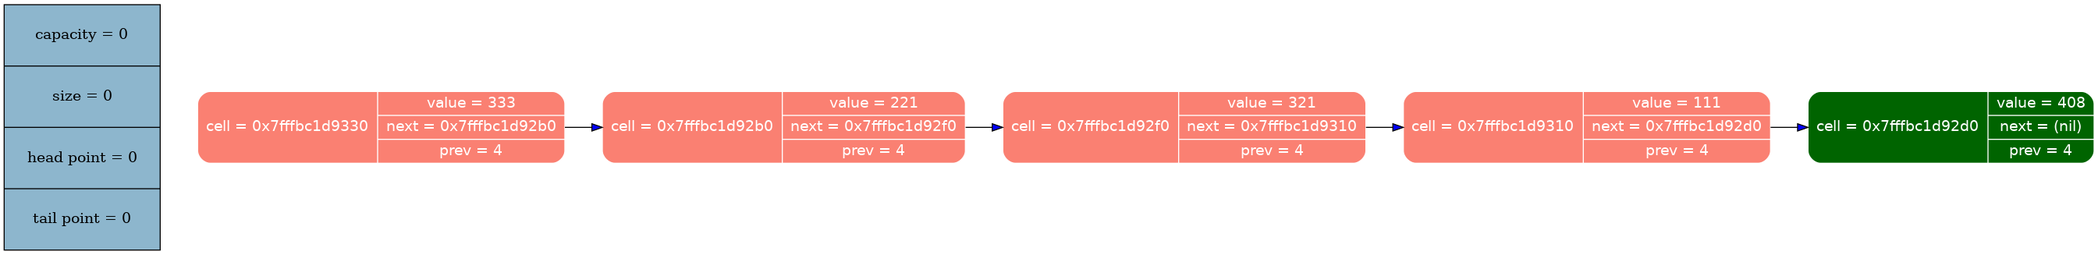
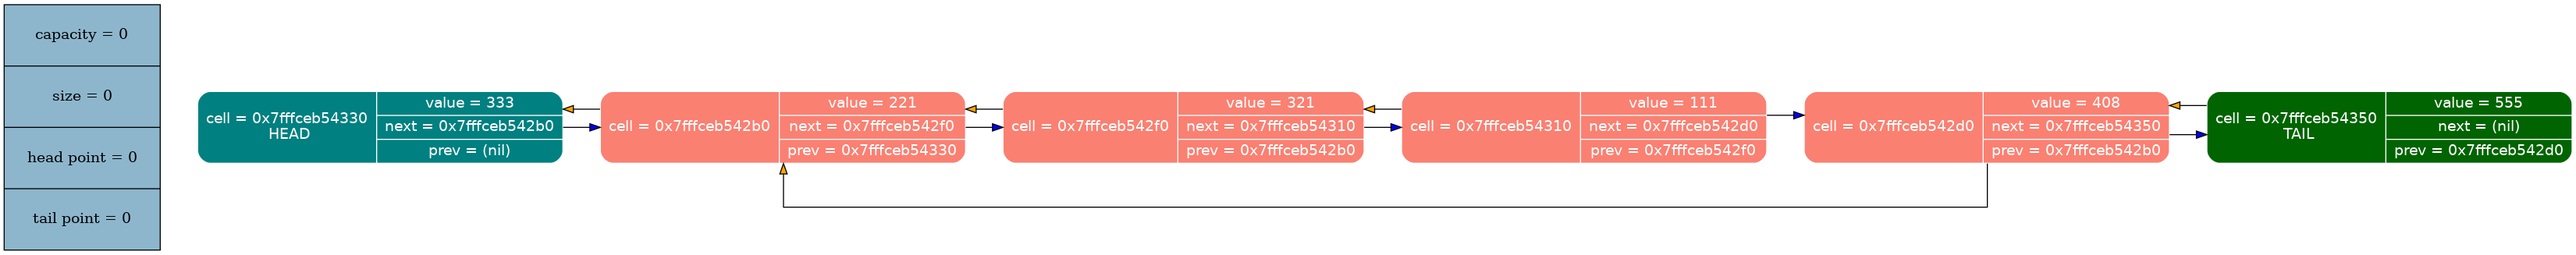
added prev

diff --git a/list_dump.cpp b/list_dump.cpp
@@ -68,35 +68,53 @@ void list_graph (lst_node_t* head)
     init_graph (graphviz, &graph_dump_set);
 
     lst_node_t* current = head;
-    for (int i = 0; current != NULL; i++)
+    int node_count = 0 ;
+    for (int edge_count = 0; current != NULL; node_count++, edge_count++)
     {
         if (current->next == NULL)
         {
-            //printf ("Hello");
-            graph_dump_set.nodes[i].fillcolor = "#006400";
-            graph_dump_set.edges[i].label = "TAIL";
-            make_node (graphviz, &graph_dump_set, &current->data, graph_dump_set.nodes[i], NULL, 4, current->data);
+            graph_dump_set.nodes[node_count].fillcolor = "#006400";
+            graph_dump_set.nodes[node_count].label     = "TAIL";
+
+            make_node (graphviz, &graph_dump_set, &current->data, graph_dump_set.nodes[node_count], NULL, &current->prev->data, current->data);
+
+            graph_dump_set.edges[edge_count].style       = "invis";
+            graph_dump_set.edges[edge_count].constraint  = "false";
+            make_edge (graphviz, &graph_dump_set, &current->data, &current->prev->data, graph_dump_set.edges[edge_count]);
+
+            graph_dump_set.edges[++edge_count].fillcolor = "orange";
+            make_edge (graphviz, &graph_dump_set, &current->data, &current->prev->data, graph_dump_set.edges[edge_count]);
+            current = current->next;
+        }
+        else if (current->prev == NULL)
+        {
+            graph_dump_set.nodes[node_count].fillcolor = "#008080";
+            graph_dump_set.nodes[node_count].label     = "HEAD";
+            make_node (graphviz, &graph_dump_set, &current->data, graph_dump_set.nodes[node_count], &current->next->data, NULL, current->data);
+
+            graph_dump_set.edges[edge_count].style       = "invis";
+            graph_dump_set.edges[edge_count].constraint  = "false";
+            make_edge (graphviz, &graph_dump_set, &current->data, &current->next->data, graph_dump_set.edges[edge_count]);
+
+            graph_dump_set.edges[++edge_count].fillcolor = "blue";
+            make_edge (graphviz, &graph_dump_set, &current->data, &current->next->data, graph_dump_set.edges[edge_count]);
             current = current->next;
         }
         else
         {
-            graph_dump_set.edges[i].fillcolor = "blue";
-            make_node (graphviz, &graph_dump_set, &current->data, graph_dump_set.nodes[i], &current->next->data, 4, current->data);
-            make_edge (graphviz, &graph_dump_set, &current->data, &current->next->data, graph_dump_set.edges[i]);
+            make_node (graphviz, &graph_dump_set, &current->data, graph_dump_set.nodes[node_count], &current->next->data, &current->prev->data, current->data);
+
+            graph_dump_set.edges[edge_count].style = "invis";
+            make_edge (graphviz, &graph_dump_set, &current->data, &current->next->data, graph_dump_set.edges[edge_count]);
+
+            graph_dump_set.edges[++edge_count].fillcolor = "blue";
+            make_edge (graphviz, &graph_dump_set, &current->data, &current->next->data, graph_dump_set.edges[edge_count]);
+
+            graph_dump_set.edges[++edge_count].fillcolor = "orange";
+            make_edge (graphviz, &graph_dump_set, &current->data, &current->prev->data, graph_dump_set.edges[edge_count]);
             current = current->next;
         }
     }
-
-    // current = head;
-    // printf ("%p %p - head\n", current, head);
-    // for (int i = 0; current->next != NULL; i++)
-    // {
-    //     printf ("%p %p - head\n", current, head);
-    //     graph_dump_set.edges[i].fillcolor = "blue";
-    //     //graph_dump_set.edges[i].constraint = "false";
-    //     make_edge (graphviz, &graph_dump_set, &current->data, &current->next->data, graph_dump_set.edges[i]);
-    //     current = current->next;
-    // }
 
     run_graphviz (graphviz, &graph_dump_set);
     fclose (graphviz);

diff --git a/functions.cpp b/functions.cpp
@@ -17,7 +17,6 @@ void init_graph (FILE* graphviz, dump_graph_t* graph_dump_set)
     {
         graph_dump_set->nodes[i] = init_struct_node;
     }
-
     for (int i = 0; i < graph_dump_set->edge_capacity; i++)
     {
         graph_dump_set->edges[i] = init_struct_edge;
@@ -28,11 +27,12 @@ void init_graph (FILE* graphviz, dump_graph_t* graph_dump_set)
 
 //--------------------------------------------------------------------------------------------------------------------------------------------------------------
 
-void make_node (FILE* graphviz, dump_graph_t* graph_dump_set, int* node_address, struct node_t nodes, int* next, size_t prev, int value)
+void make_node (FILE* graphviz, dump_graph_t* graph_dump_set, int* node_address, struct node_t nodes, int* next, int* prev, int value)
 {
-    if (graph_dump_set->node_capacity <= graph_dump_set->node_size + 5) resize_struct (graph_dump_set);
+    if (graph_dump_set->node_capacity <= graph_dump_set->node_size + 1) resize_struct (graph_dump_set);
 
-    fprintf (graphviz, "node%p [shape = \"%s\", fillcolor = \"%s\", style = \"%s\", fontcolor = \"%s\", fontname = \"%s\", color = \"%s\", label = \"{cell = %p\\n %s| {value = %d |next = %p |prev = %ld}}\"]\n",
+
+    fprintf (graphviz, "node%p [shape = \"%s\", fillcolor = \"%s\", style = \"%s\", fontcolor = \"%s\", fontname = \"%s\", color = \"%s\", label = \"{cell = %p\\n %s| {value = %d |next = %p |prev = %p}}\"]\n",
                 node_address, nodes.shape,  nodes.fillcolor,    nodes.style,    nodes.fontcolor,    nodes.fontname,    nodes.color,  node_address, nodes.label ,         value,      next,       prev);
     graph_dump_set->node_size++;
 }
@@ -41,7 +41,7 @@ void make_node (FILE* graphviz, dump_graph_t* graph_dump_set, int* node_address,
 
 void make_edge (FILE* graphviz, dump_graph_t* graph_dump_set, int* node_from, int* node_to, struct edge_t edges)
 {
-    if (graph_dump_set->edge_capacity <= graph_dump_set->edge_size + 5) resize_struct (graph_dump_set);
+    if (graph_dump_set->edge_capacity <= graph_dump_set->edge_size + 1) resize_struct (graph_dump_set);
 
     fprintf (graphviz, "node%p -> node%p [color = \"%s\", style = \"%s\", constraint = %s, fillcolor = \"%s\",   fontcolor = \"%s\", fontname = \"%s\", label = \"%s\"];\n",
                         node_from, node_to, edges.color,   edges.style,    edges.constraint, edges.fillcolor, edges.fontcolor,    edges.fontname,     edges.label);
@@ -65,12 +65,11 @@ void print_def_info (FILE* graphviz, dump_graph_t* graph_dump_set)
 
 void resize_struct (dump_graph_t* graph_dump_set)
 {
-    if (graph_dump_set->edge_capacity <= graph_dump_set->edge_size + 5)
+    if (graph_dump_set->edge_capacity <= graph_dump_set->edge_size + 1)
     {
 
-        size_t prev_capacity = graph_dump_set->edge_capacity;
+        size_t prev_capacity = graph_dump_set->edge_capacity ;
         graph_dump_set->edge_capacity *= 2;
-        printf ("%ld", graph_dump_set->edge_capacity);
         edge_t* edges_resize = (edge_t*) realloc (graph_dump_set->edges,  graph_dump_set->edge_capacity * sizeof (struct edge_t));
 
         MY_ASSERT (edges_resize != NULL);
@@ -82,7 +81,7 @@ void resize_struct (dump_graph_t* graph_dump_set)
         }
     }
 
-    else if (graph_dump_set->node_capacity <= graph_dump_set->node_size + 5)
+    else if (graph_dump_set->node_capacity <= graph_dump_set->node_size + 1)
     {
         size_t prev_capacity = graph_dump_set->node_capacity;
         graph_dump_set->node_capacity *= 2;

diff --git a/list_functions.cpp b/list_functions.cpp
@@ -16,7 +16,6 @@ lst_node_t* list_create (list_type value)
     node->data = value;
     node->next = NULL;
     node->prev = NULL;
-   //printf ("%p\n", node);
     return node;
 }
 
@@ -35,11 +34,8 @@ lst_node_t* list_insert (lst_node_t* head, lst_node_t* node)
     node->prev    = current;
     node->next    = current->next;
     current->next = node;
-    printf ("2) %p %p - head\n", node, head);
     return head;
 }
-
-//-------------------------------------------------------------------------------------------------------------------------------------------------------------------------------------
 
 lst_node_t* list_push_front (lst_node_t* head, lst_node_t* node)
 {
@@ -50,6 +46,15 @@ lst_node_t* list_push_front (lst_node_t* head, lst_node_t* node)
     return node;
 }
 
+lst_node_t* list_push_back (lst_node_t* tail, lst_node_t* node)
+{
+    MY_ASSERT (tail != NULL && node != NULL)
+    node->next = NULL;
+    node->prev = tail;
+    tail->next = node;
+    return node;
+}
+
 //-------------------------------------------------------------------------------------------------------------------------------------------------------------------------------------
 
 lst_node_t* list_remove (lst_node_t* head, lst_node_t* node)
@@ -57,8 +62,6 @@ lst_node_t* list_remove (lst_node_t* head, lst_node_t* node)
     if (node == head)
     {
         lst_node_t* ret = head->next;
-
-        //ret->prev = NULL;
         free (head);
         return ret;
     }
@@ -68,12 +71,14 @@ lst_node_t* list_remove (lst_node_t* head, lst_node_t* node)
     {
         if (current->next == NULL)
         {
-            return head;
+            return head; //printf (inpossible to dedlete node that doesnot exist)
         }
         current = current->next;
     }
-    current->next = current->next->next;
-    free (current->next);
+    lst_node_t* tmp_node      = current->next;
+    current->next->next->prev = current;
+    current->next             = current->next->next;
+    free (tmp_node);
     return head;
 }
 

diff --git a/list.h b/list.h
@@ -13,12 +13,6 @@ typedef int list_type; // type of elem in list
 
 //-------------------------------------------------------------------------------------------------------------------------------------------------------------------
 
-enum list_side
-{
-    TAIL = 1,
-    HEAD = 2,
-};
-
 enum code_of_errors
 {
     LIST_IS_OKAY    =  0,
@@ -50,6 +44,7 @@ void        list_construct  (list_t* box);
 lst_node_t* list_create     (list_type elem);
 lst_node_t* list_insert     (lst_node_t* head, lst_node_t* node);
 lst_node_t* list_push_front (lst_node_t* head, lst_node_t* node);
+lst_node_t* list_push_back  (lst_node_t* tail, lst_node_t* node);
 
 lst_node_t* list_pop        (list_t* box, size_t position);
 lst_node_t* list_remove     (lst_node_t* head, lst_node_t* node);

diff --git a/graphviz.h b/graphviz.h
@@ -54,7 +54,7 @@ struct dump_graph_t
 //--------------------------------------------------------------------------------------------------------------------------
 
 void init_graph     (FILE* graphviz, dump_graph_t* graph_dump_set);
-void make_node      (FILE* graphviz, dump_graph_t* graph_dump_set, int* node_address, struct node_t nodes, int* next, size_t prev, int value);
+void make_node      (FILE* graphviz, dump_graph_t* graph_dump_set, int* node_address, struct node_t nodes, int* next, int* prev, int value);
 void make_edge      (FILE* graphviz, dump_graph_t* graph_dump_set, int* node_from, int* node_to, struct edge_t edges);
 void resize_struct  (dump_graph_t* graph_dump_set);
 void print_def_info (FILE* graphviz, dump_graph_t* graph_dump_set);

diff --git a/main.cpp b/main.cpp
@@ -14,8 +14,14 @@ int main ()
     list_insert (node1, node2);            //node1->next->data = node2->data
     list_insert (node1, node3);
     list_insert (node3, node4);
-    list_push_front (node1, node5);
+   // list_insert (node4, node5);
+    //list_insert (node3, node4);
+    //list_push_front (node1, node5);
+
+    list_push_back  (node2, list_create (555));
     //printf ("%p\n", node_x->next );
+   // list_remove (node5, node3);
+    list_push_front (node1, node5);
     list_graph  (node5);
     list_delete (node5);
     return 0;
